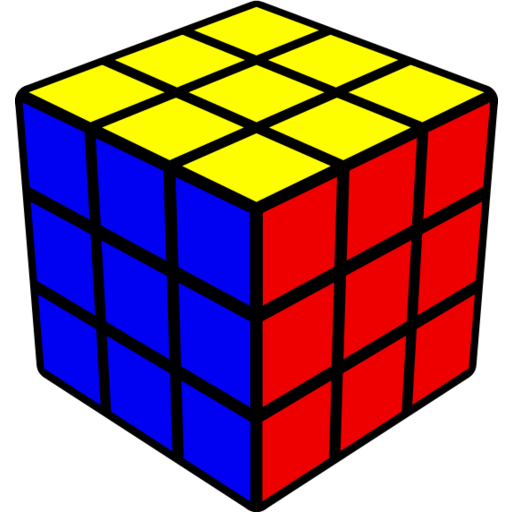
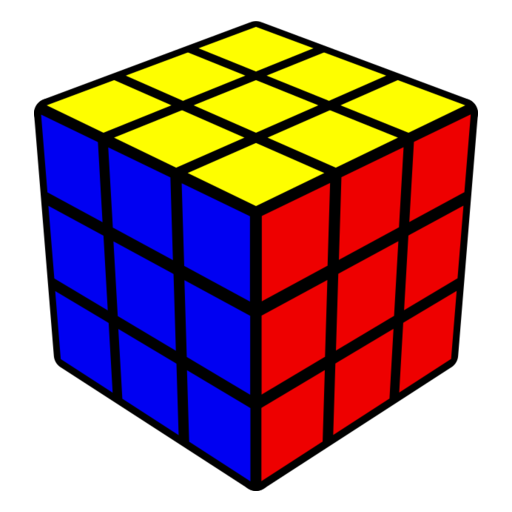
Add recommended border to Android images

diff --git a/README.md b/README.md
@@ -70,14 +70,6 @@ convert -background white visualcube/master-colour.svg -trim -resize 162x162 -gr
 
 The "android" folder contains all of the images used by Android Chrome, referenced by the Web App manifest.
 
-The 192x192 image is the only icon included in the \<head> section of the HTML:
-
-```xml
-<link rel="icon" type="image/png" sizes="192x192" href="/android-chrome-192x192.png">
-```
-
-Note: 192 is a common factor of 16, 24, 32, 48, 64 and 96 so it can easily be scaled when a smaller icon is required.
-
 The Android images are primarily used for launcher icons and splash screens. This package includes images for all of the standard pixel densities documented for Android.
 
 Launcher Icon for Web App:
@@ -176,19 +168,19 @@ A theme colour can also be specified as follows:
 ```
 
 ### Commands
-All of the Android images were generated with transparent backgrounds and filling the canvas:
+All of the Android images were generated with transparent backgrounds and the border recommended on Material Design:
 
 ```bash
-convert -background transparent visualcube/master-colour.svg -trim -resize 36x36 -gravity center -extent 36x36 android/android-chrome-36x36.png
-convert -background transparent visualcube/master-colour.svg -trim -resize 48x48 -gravity center -extent 48x48 android/android-chrome-48x48.png
-convert -background transparent visualcube/master-colour.svg -trim -resize 72x72 -gravity center -extent 72x72 android/android-chrome-72x72.png
-convert -background transparent visualcube/master-colour.svg -trim -resize 96x96 -gravity center -extent 96x96 android/android-chrome-96x96.png
-convert -background transparent visualcube/master-colour.svg -trim -resize 128x128 -gravity center -extent 128x128 android/android-chrome-128x128.png
-convert -background transparent visualcube/master-colour.svg -trim -resize 144x144 -gravity center -extent 144x144 android/android-chrome-144x144.png
-convert -background transparent visualcube/master-colour.svg -trim -resize 192x192 -gravity center -extent 192x192 android/android-chrome-192x192.png
-convert -background transparent visualcube/master-colour.svg -trim -resize 256x256 -gravity center -extent 256x256 android/android-chrome-256x256.png
-convert -background transparent visualcube/master-colour.svg -trim -resize 384x384 -gravity center -extent 384x384 android/android-chrome-384x384.png
-convert -background transparent visualcube/master-colour.svg -trim -resize 512x512 -gravity center -extent 512x512 android/android-chrome-512x512.png
+convert -background transparent visualcube/master-colour.svg -trim -resize 32x32 -gravity center -extent 36x36 android/android-chrome-36x36.png
+convert -background transparent visualcube/master-colour.svg -trim -resize 44x44 -gravity center -extent 48x48 android/android-chrome-48x48.png
+convert -background transparent visualcube/master-colour.svg -trim -resize 66x66 -gravity center -extent 72x72 android/android-chrome-72x72.png
+convert -background transparent visualcube/master-colour.svg -trim -resize 88x88 -gravity center -extent 96x96 android/android-chrome-96x96.png
+convert -background transparent visualcube/master-colour.svg -trim -resize 118x118 -gravity center -extent 128x128 android/android-chrome-128x128.png
+convert -background transparent visualcube/master-colour.svg -trim -resize 132x132 -gravity center -extent 144x144 android/android-chrome-144x144.png
+convert -background transparent visualcube/master-colour.svg -trim -resize 176x176 -gravity center -extent 192x192 android/android-chrome-192x192.png
+convert -background transparent visualcube/master-colour.svg -trim -resize 234x234 -gravity center -extent 256x256 android/android-chrome-256x256.png
+convert -background transparent visualcube/master-colour.svg -trim -resize 352x352 -gravity center -extent 384x384 android/android-chrome-384x384.png
+convert -background transparent visualcube/master-colour.svg -trim -resize 470x470 -gravity center -extent 512x512 android/android-chrome-512x512.png
 optipng -o7 -zm1-9 android/*.png
 ```
 
@@ -200,6 +192,7 @@ optipng -o7 -zm1-9 android/*.png
 * Google Developers Updates - [Adding a Splash Screen](https://developers.google.com/web/updates/2015/10/splashscreen)
 * Google Developers Updates - [Support for theme-color in Chrome 39 for Android](https://developers.google.com/web/updates/2014/11/Support-for-theme-color-in-Chrome-39-for-Android)
 * MDN - [Web App Manifest](https://developer.mozilla.org/en-US/docs/Web/Manifest)
+* Material Design - [Style - Icons](https://material.io/guidelines/style/icons.html)
 
 
 ## Apple iOS
@@ -281,7 +274,7 @@ Remote desktop environments prefer 256 colour images but this favicon includes 3
 Modern browsers are better off with a high resolution PNG rather than the ICO so you can use the following in the HTML:
 
 ```xml
-<link rel="icon" type="image/png" sizes="192x192" href="/android-chrome-192x192.png" />
+<link rel="icon" type="image/png" sizes="192x192" href="/favicon-192x192.png" />
 ```
 
 Note: 192 is a common factor of 16, 24, 32, 48, 64 and 96 so it can easily be scaled when a smaller icon is required.
@@ -291,6 +284,7 @@ The classic favicon was created using [ImageMagick](https://www.imagemagick.org/
 
 ```bash
 convert -background transparent master/svg-colour.svg -trim -resize 576x576 -gravity center -extent 576x576 -define icon:auto-resize=48,32,16 classic/favicon.ico
+convert -background transparent visualcube/master-colour.svg -trim -resize 192x192 -gravity center -extent 192x192 classic/favicon-192x192.png
 ```
 
 ### References
